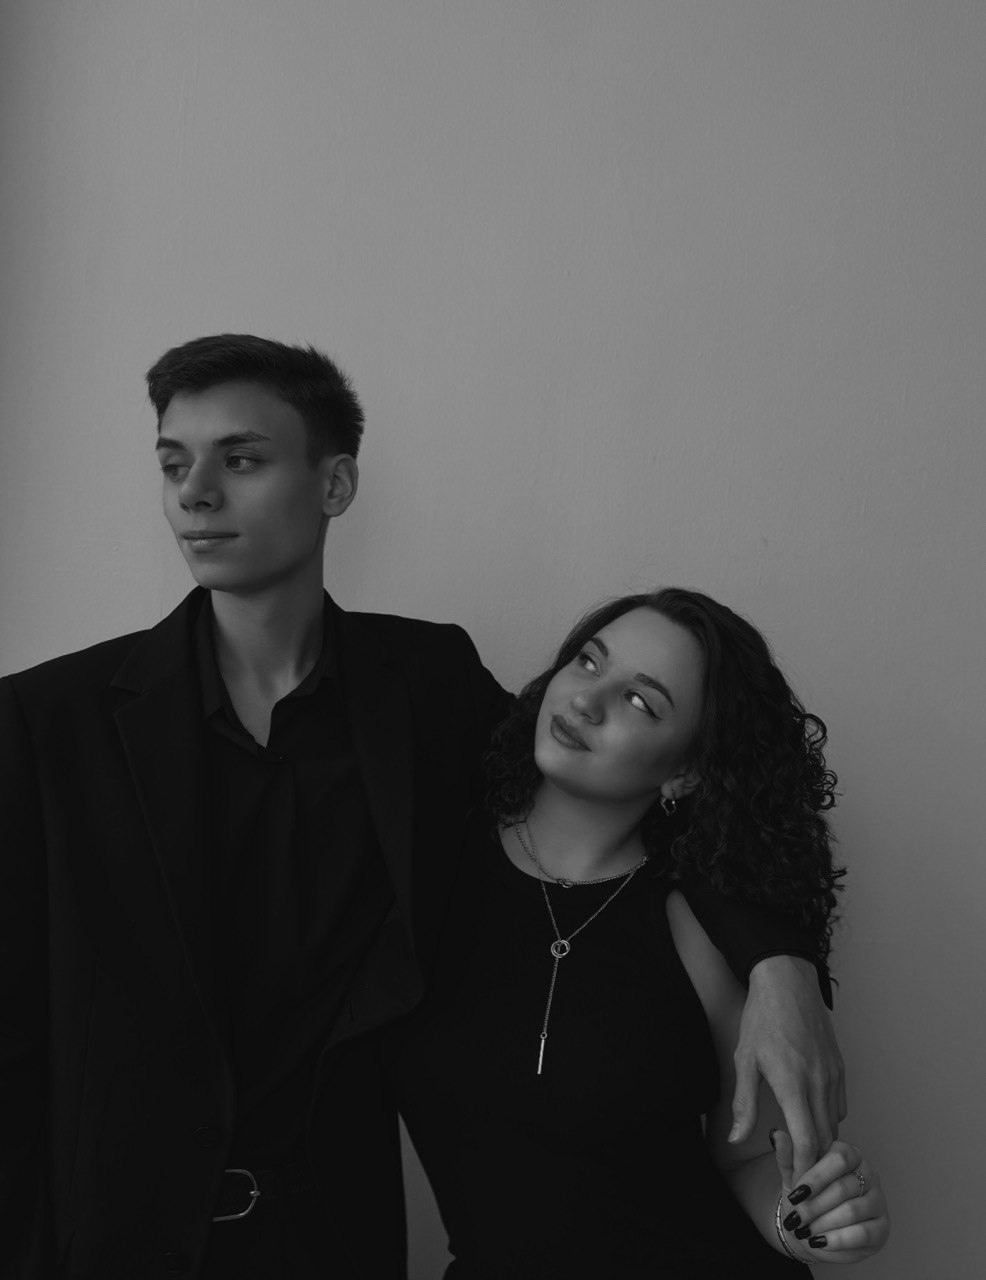
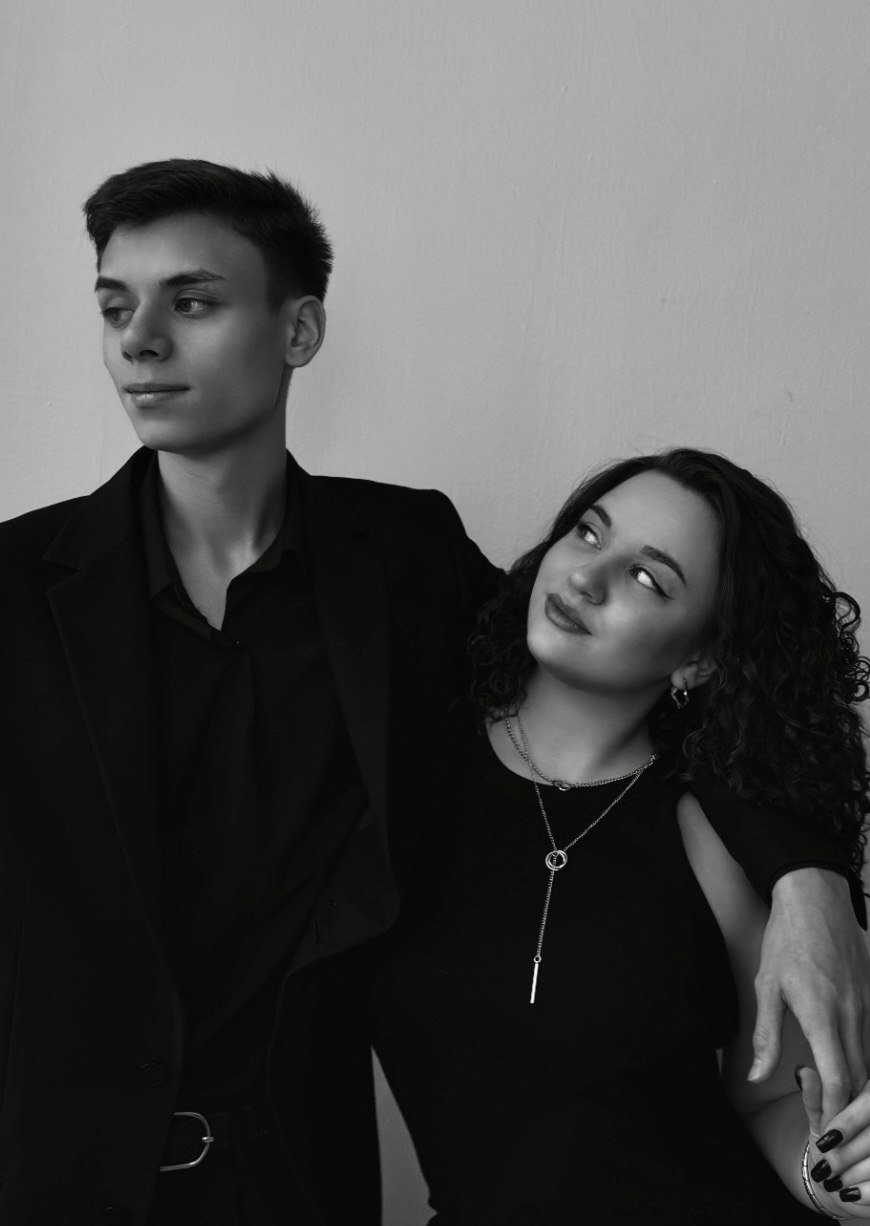
фото чата

diff --git a/src/App.tsx b/src/App.tsx
@@ -40,6 +40,8 @@ const venueImage =
 const heroImage = '/hero.jpg'
 const countdownImage = '/countdown.jpg'
 const dressCodeImage = '/dresscode.jpg'
+const chatImage1 = '/chat1.jpg'
+const chatImage2 = '/chat2.jpg'
 const mapUrl =
   'https://2gis.ru/irkutsk/search/%D0%BF%D0%B0%D0%BD%D0%BE%D1%80%D0%B0%D0%BC%D0%B0%20%D1%85%D0%BE%D0%BB%D0%BB/firm/70000001100068753/104.325811%2C52.22267?m=104.280722%2C52.28858%2F10.86'
 
@@ -427,27 +429,35 @@ export default function App() {
             <p>Давайте поделимся друг с другом счастливыми моментами этого важного дня и будем на связи!</p>
           </div>
 
-          <div className="chat-images">
-            <motion.div
-              className="chat-image-left"
-              initial={{ opacity: 0, x: -16, y: 16, rotate: -2 }}
-              whileInView={{ opacity: 1, x: 0, y: 0, rotate: 0 }}
-              viewport={{ once: true, amount: 0.35 }}
-              transition={{ duration: 0.8, ease: 'easeOut' }}
-            >
-              <PhotoPlaceholder label="ФОТО 1" tone="soft" className="chat-photo" />
-            </motion.div>
+<div className="chat-images">
+  <motion.div
+    className="chat-image-left"
+    initial={{ opacity: 0, x: -16, y: 16, rotate: -2 }}
+    whileInView={{ opacity: 1, x: 0, y: 0, rotate: 0 }}
+    viewport={{ once: true, amount: 0.35 }}
+    transition={{ duration: 0.8, ease: 'easeOut' }}
+  >
+    <img
+      src={chatImage1}
+      alt="Фото пары 1"
+      className="chat-photo"
+    />
+  </motion.div>
 
-            <motion.div
-              className="chat-image-right"
-              initial={{ opacity: 0, x: 16, y: 20, rotate: 2 }}
-              whileInView={{ opacity: 1, x: 0, y: 0, rotate: 0 }}
-              viewport={{ once: true, amount: 0.35 }}
-              transition={{ duration: 0.8, delay: 0.08, ease: 'easeOut' }}
-            >
-              <PhotoPlaceholder label="ФОТО 2" tone="warm" className="chat-photo" />
-            </motion.div>
-          </div>
+  <motion.div
+    className="chat-image-right"
+    initial={{ opacity: 0, x: 16, y: 20, rotate: 2 }}
+    whileInView={{ opacity: 1, x: 0, y: 0, rotate: 0 }}
+    viewport={{ once: true, amount: 0.35 }}
+    transition={{ duration: 0.8, delay: 0.08, ease: 'easeOut' }}
+  >
+    <img
+      src={chatImage2}
+      alt="Фото пары 2"
+      className="chat-photo"
+    />
+  </motion.div>
+</div>
 
           <motion.button
             className="chat-button"
@@ -467,7 +477,7 @@ export default function App() {
             <DetailCard delay={0.03}>
               По всем вопросам, просим обращаться к нашему организатору:
               <br />
-              Екатерина +7 950 140 0699
+              Екатерина +79501400699
             </DetailCard>
           </div>
 
